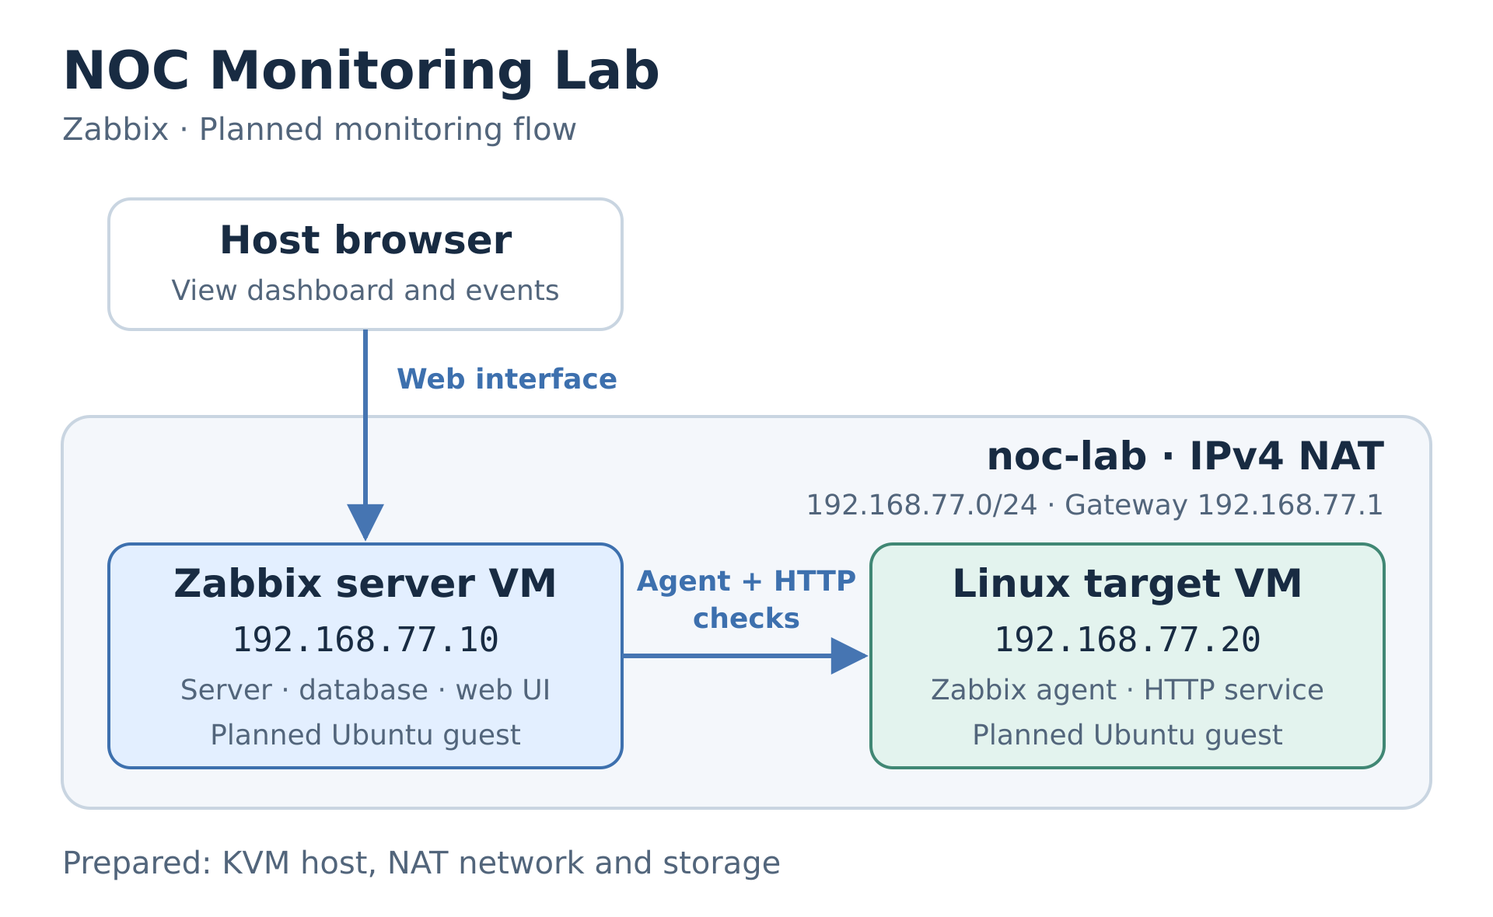
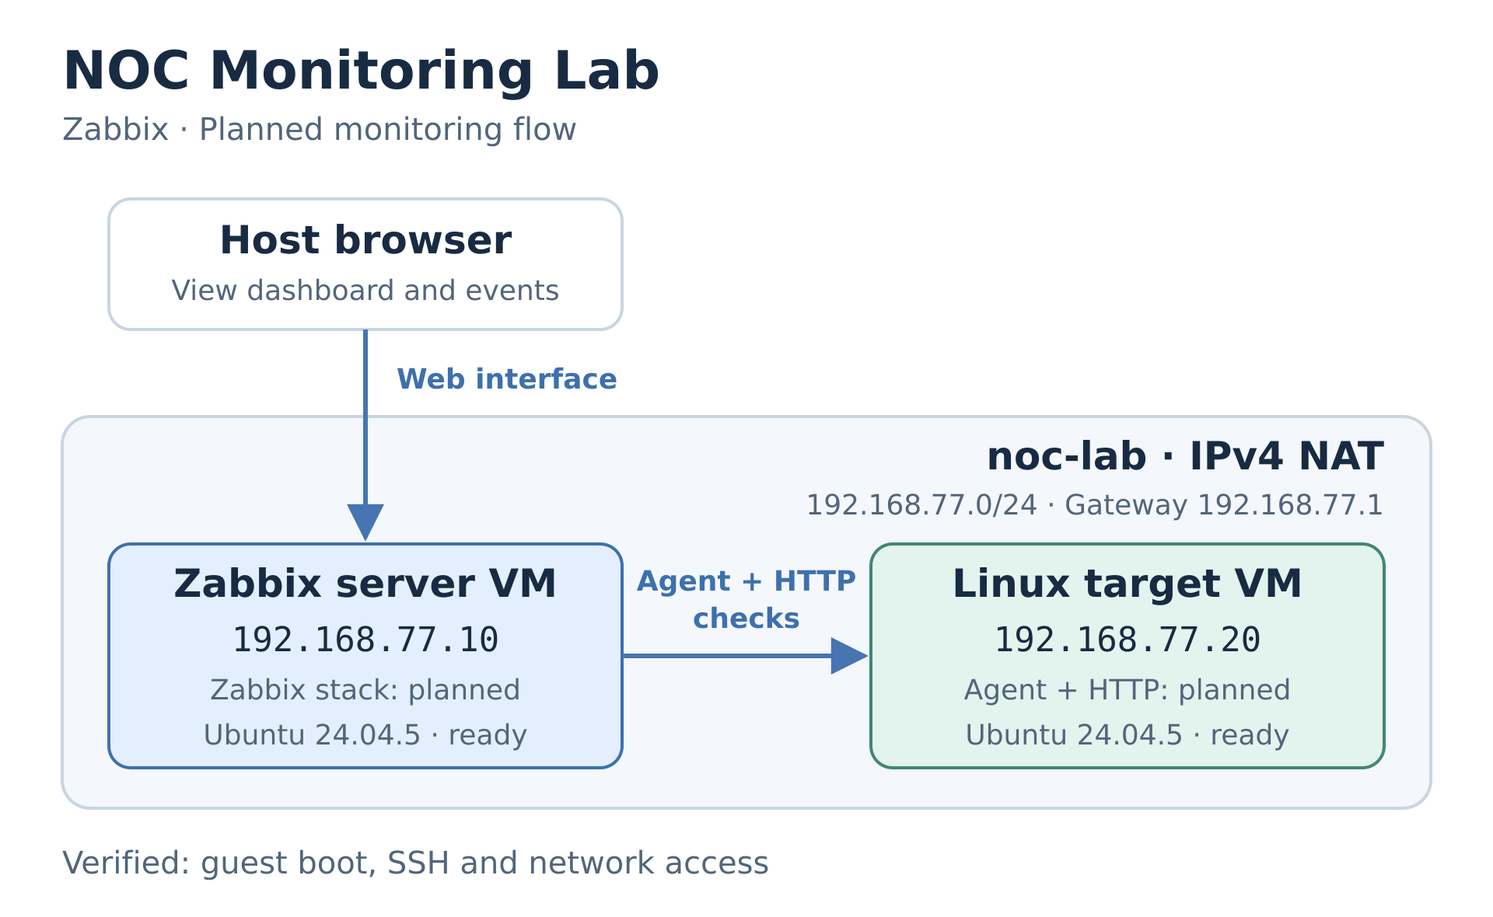
Document verified guest baseline without workstation details

diff --git a/scripts/create-guests.py b/scripts/create-guests.py
@@ -1,0 +1,101 @@
+#!/usr/bin/env python3
+"""Create the two lab guests from the pinned, signature-verified Ubuntu image.
+
+Run as root with IMAGE and SSH_PUBLIC_KEY arguments after authenticating SHA256SUMS.
+Existing guests, disks and rendered configuration are never overwritten.
+"""
+import argparse
+import hashlib
+import json
+import os
+from pathlib import Path
+import shutil
+import subprocess
+import uuid
+import xml.etree.ElementTree as ET
+
+import libvirt
+
+
[1 lines of base64/hex data omitted]
+GUESTS = (
+    ('zabbix-server', 4096, 2, 24, '52:54:00:77:00:10', '192.168.77.10'),
+    ('linux-target', 1024, 1, 12, '52:54:00:77:00:20', '192.168.77.20'),
+)
+
+
+def main():
+    parser = argparse.ArgumentParser(description=__doc__)
+    parser.add_argument('image', type=Path)
+    parser.add_argument('ssh_public_key', type=Path)
+    args = parser.parse_args()
+    if os.geteuid() != 0:
+        raise SystemExit('Run through sudo or pkexec; system libvirt requires administrative access.')
+    image = args.image.resolve(strict=True)
+    with image.open('rb') as source:
+        if hashlib.file_digest(source, 'sha256').hexdigest() != IMAGE_SHA256:
+            raise SystemExit('Image checksum does not match Ubuntu release build 20260926.')
+    key = args.ssh_public_key.read_text().strip()
+    if not key.startswith('ssh-ed25519 ') or '\n' in key:
+        raise SystemExit('Provide one Ed25519 public key, not a private key.')
+
+    project = Path(__file__).resolve().parent.parent
+    template = (project / 'configs/cloud-init/user-data.example').read_text()
+    state = project / '.project/cloud-init'
+    pool_path = Path('/var/lib/libvirt/images/noc-lab')
+    meminfo = dict(line.split(':', 1) for line in Path('/proc/meminfo').read_text().splitlines())
+    if int(meminfo['MemAvailable'].split()[0]) < 7 * 1024 * 1024:
+        raise SystemExit('Need at least 7 GiB available RAM for the 5 GiB guest budget plus headroom.')
+    if shutil.disk_usage(pool_path).free < 45 * 1024**3:
+        raise SystemExit('Need at least 45 GiB free disk for guest capacities and host headroom.')
+
+    with libvirt.open('qemu:///system') as conn:
+        network = conn.networkLookupByName('noc-lab')
+        pool = conn.storagePoolLookupByName('noc-lab')
+        if not network.isActive() or not pool.isActive():
+            raise SystemExit('The noc-lab network and pool must be active.')
+        if ET.fromstring(pool.XMLDesc()).findtext('target/path') != str(pool_path):
+            raise SystemExit('Unexpected noc-lab pool path.')
+        reservations = {h.get('mac'): h.get('ip') for h in ET.fromstring(network.XMLDesc()).findall('ip/dhcp/host')}
+        names = {domain.name() for domain in conn.listAllDomains()}
+        for name, _, _, _, mac, address in GUESTS:
+            if reservations.get(mac) != address:
+                raise SystemExit(f'DHCP reservation mismatch: {name}')
+            if name in names or (pool_path / f'{name}.qcow2').exists() or (state / name).exists():
+                raise SystemExit(f'{name} already has state; inspect it instead of recreating it.')
+
+        os.umask(0o077)
+        state.mkdir(parents=True, exist_ok=True)
+        for name, memory, cpus, disk_gib, mac, _ in GUESTS:
+            seed = state / name
+            seed.mkdir()
+            (seed / 'user-data').write_text(template.replace('__HOSTNAME__', name).replace('__SSH_PUBLIC_KEY__', json.dumps(key)))
+            (seed / 'meta-data').write_text(json.dumps({'instance-id': f'{name}-{uuid.uuid4()}', 'local-hostname': name}) + '\n')
+            network_data = {'version': 2, 'ethernets': {'lab0': {
+                'match': {'macaddress': mac}, 'set-name': 'lab0',
+                'dhcp4': True, 'dhcp-identifier': 'mac', 'dhcp6': False, 'accept-ra': False,
+            }}}
+            (seed / 'network-config').write_text(json.dumps(network_data) + '\n')
+            disk = pool_path / f'{name}.qcow2'
+            print(f'Preparing {name}: {cpus} vCPU, {memory} MiB RAM, {disk_gib} GiB disk.', flush=True)
+            subprocess.run(['qemu-img', 'convert', '-f', 'qcow2', '-O', 'qcow2', str(image), str(disk)], check=True)
+            subprocess.run(['qemu-img', 'resize', str(disk), f'{disk_gib}G'], check=True)
+            pool.refresh()
+            subprocess.run([
+                'virt-install', '--connect', 'qemu:///system', '--name', name,
+                '--memory', str(memory), '--vcpus', str(cpus), '--cpu', 'host-model',
+                '--machine', 'q35', '--virt-type', 'kvm', '--osinfo', 'ubuntu24.04',
+                '--import', '--boot', 'uefi,firmware.feature0.name=secure-boot,firmware.feature0.enabled=no',
+                '--disk', f'path={disk},format=qcow2,bus=virtio',
+                '--network', f'network=noc-lab,model=virtio,mac={mac}',
+                '--graphics', 'none', '--console', 'pty,target_type=serial',
+                '--channel', 'unix,target_type=virtio,name=org.qemu.guest_agent.0',
+                '--cloud-init', f'user-data={seed / "user-data"},meta-data={seed / "meta-data"},network-config={seed / "network-config"}',
+                '--noautoconsole',
+            ], check=True)
+            conn.lookupByName(name).setAutostart(0)
+        print('Both domains created. Wait for cloud-init and verify guest networking before proceeding.', flush=True)
+
+
+if __name__ == '__main__':
+    main()

diff --git a/docs/LAB.md b/docs/LAB.md
@@ -1,43 +1,43 @@
-# Lab design and build steps
+# Lab setup
 
-Status: virtualization host prepared and checked on 2026-09-22; the two Linux guests and Zabbix deployment are pending. See [validation](VALIDATION.md).
+Two Ubuntu VMs are ready; monitoring is the next step. This page describes the lab configuration and how its guest baseline was built. See [validation](VALIDATION.md) for observed results, rather than assuming every planned feature already works.
 
-## Initial topology
+## What runs where
 
-```text
-Host browser -> Zabbix server VM -> Linux target VM
-                                   agent + HTTP service
-```
+- **Physical host:** QEMU/KVM runs the VMs; libvirt manages their network and disks. virt-manager is the graphical management tool.
+- **zabbix-server:** will collect monitoring data, store it in a database and serve the browser dashboard.
+- **linux-target:** will run Zabbix Agent 2 and a small HTTP service. Fault exercises happen here.
 
-The implemented libvirt network `noc-lab` uses bridge `virbr-noc`, gateway `192.168.77.1/24` and IPv4 NAT. The subnet did not overlap the host routes at setup. Its DNS domain is `noc.test`; DHCP reservations are in [the reusable network definition](../configs/libvirt/noc-lab.xml). Guest outbound connectivity will be tested after guest creation. NAT permits guest-initiated access to the LAN as well as the internet; this is not a network for hostile workloads.
+The VMs currently run Ubuntu Server **24.04.5 LTS**. Zabbix **7.0 LTS** is planned, not installed.
 
-## Host preparation
+## Lab settings
 
-The host has an Intel i5-1145G7 (4 cores / 8 threads), approximately 15 GiB usable RAM and hardware KVM support. Before installation, approximately 10 GiB RAM and 113 GiB disk were available. KVM was already enabled; no firmware change was needed.
+| VM | vCPU | RAM | Disk capacity | Reserved IP | MAC address |
+|---|---:|---:|---:|---|---|
+| zabbix-server | 2 | 4 GiB | 24 GiB | 192.168.77.10 | 52:54:00:77:00:10 |
+| linux-target | 1 | 1 GiB | 12 GiB | 192.168.77.20 | 52:54:00:77:00:20 |
 
-Installed from the configured CachyOS/Arch repositories:
+These are starting allocations for this small lab, not production sizing recommendations. Reassess memory after installing services. Each VM uses UEFI, virtio devices and its own qcow2 disk; sparse disk files grow as data is written.
 
-| Package | Installed version |
-|---|---|
-| qemu-desktop | 11.1.1-2 |
-| libvirt | 1:12.7.0-1.1 |
-| virt-manager / virt-install | 5.1.0-4 |
-| dnsmasq | 2.93-1.1 (already installed) |
-| edk2-ovmf | 202608-1 |
+The `noc-lab` network uses subnet `192.168.77.0/24`, gateway `192.168.77.1`, bridge `virbr-noc` and DNS domain `noc.test`. DHCP assigns the reserved addresses above; its dynamic range is `.100`–`.199`. NAT lets guests reach package repositories without connecting them directly to the physical LAN. It also permits guest-initiated LAN access; it is not full isolation from your LAN.
 
-QEMU/KVM runs the guests; libvirt manages their lifecycle, network and storage; virt-manager provides a graphical view. Management uses `qemu:///system` with local polkit authentication. The packaged `libvirtd.service` and its local sockets are enabled. No libvirt TCP management listener was enabled. The network driver uses its default nftables backend.
+## Prepare your own virtualization host
 
-The existing UFW firewall remains active. Four lab-specific IPv4 rules permit DHCP, DNS and outbound forwarding through the current uplink `wlan0`. If the uplink changes, review the forwarding rule before expecting guest internet access. Host Wi-Fi addressing and the default route were preserved.
+Use a Linux host with hardware virtualization enabled. Install QEMU/KVM, libvirt, virt-manager, virt-install, UEFI firmware, dnsmasq and Python libvirt bindings using your distribution's instructions. Service names and firewall setup vary by distribution.
 
-Commands used on the inspected host (run from the repository root; inspect existing routes, firewall rules, networks and pools before reuse):
+Before creating anything, check available memory/storage, existing libvirt networks and routes. Choose a lab subnet that does not overlap your LAN or VPN. The optional creation script requires at least **7 GiB available RAM and 45 GiB free disk** before it starts; these are its guardrails, not measurements of the author's computer.
+
+Run these inspection commands **on the physical host**:
 
 ```sh
-sudo pacman -S --needed qemu-desktop libvirt virt-manager virt-install dnsmasq edk2-ovmf
-sudo systemctl enable --now libvirtd.service
-sudo ufw allow in on virbr-noc proto udp from any to 0.0.0.0/0 port 67 comment 'NOC lab DHCP'
-sudo ufw allow in on virbr-noc proto udp from 192.168.77.0/24 to 192.168.77.1 port 53 comment 'NOC lab DNS UDP'
-sudo ufw allow in on virbr-noc proto tcp from 192.168.77.0/24 to 192.168.77.1 port 53 comment 'NOC lab DNS TCP'
-sudo ufw route allow in on virbr-noc out on wlan0 from 192.168.77.0/24 to any comment 'NOC lab outbound'
+ip route
+virsh -c qemu:///system --readonly net-list --all
+virsh -c qemu:///system --readonly pool-list --all
+```
+
+On a new setup, review [the network XML](../configs/libvirt/noc-lab.xml), then create the network and storage pool from the repository root. Skip creation when they already exist; inspect them instead.
+
+```sh
 sudo virsh -c qemu:///system net-define configs/libvirt/noc-lab.xml
 sudo virsh -c qemu:///system net-start noc-lab
 sudo virsh -c qemu:///system net-autostart noc-lab
@@ -47,52 +47,39 @@ sudo virsh -c qemu:///system pool-start noc-lab
 sudo virsh -c qemu:///system pool-autostart noc-lab
 ```
 
-The package transaction used existing synchronized package databases; it did not run a standalone database refresh or a system upgrade. On an outdated rolling-release host, complete its normal system update before installing packages.
+If your host firewall blocks the lab, allow guest DHCP, DNS to the lab gateway and outbound forwarding through your actual uplink. Keep the firewall enabled; do not copy an interface name from another computer. Verify guest DNS and package access after boot.
 
-Inspect with `virsh -c qemu:///system --readonly net-list --all` and `virsh -c qemu:///system --readonly pool-list --all`. Open virt-manager with the system QEMU/KVM connection; management may request administrator authentication. The dedicated pool is empty. Its autostart activates the storage directory, not the guests.
+Network and pool autostart are enabled in this build. **VM autostart is disabled:** opening the storage pool does not start the guests.
 
-## Planned guests
+## Create and access the guests
 
-| Guest | vCPU | RAM | Maximum qcow2 disk | Reserved IPv4 | NIC MAC |
-|---|---:|---:|---:|---|---|
-| zabbix-server | 2 | 4 GiB | 24 GiB | 192.168.77.10 | 52:54:00:77:00:10 |
-| linux-target | 1 | 1 GiB | 12 GiB | 192.168.77.20 | 52:54:00:77:00:20 |
+### Reproduce guest creation
 
-This is a starting budget for a two-host lab, not a vendor sizing recommendation. Recheck resources before creating guests and measure pressure after deployment. Sparse disks grow as data is written; snapshots also consume host disk. Leave guest autostart disabled initially.
+1. Obtain `ubuntu-24.04-server-cloudimg-amd64.img`, `SHA256SUMS` and `SHA256SUMS.gpg` from the [official release build 20260926](https://cloud-images.ubuntu.com/releases/noble/release-20260926/). Use the released build, not the moving daily image URL.
+2. Follow [Canonical's signature verification procedure](https://ubuntu.com/docs/public-images/public-images-how-to/verify-image-checksum/). The verified signing fingerprint is `D2EB44626FDDC30B513D5BB71A5D6C4C7DB87C81`. Then check the image against the authenticated manifest. The expected SHA256 is:
 
-Selected guest release family: Ubuntu Server 24.04 LTS, with Zabbix 7.0 LTS packages planned. Both are supported release families as checked on 2026-09-22; neither is installed. Use an official amd64 cloud image, verify its checksum against an authenticated upstream manifest, and record its exact build and installed package versions. Use distinct SSH host keys and keep cloud-init credentials local. UEFI firmware is installed for guest creation.
+   ```text
[1 lines of base64/hex data omitted]
+   ```
 
-## Build stages
+3. Prepare a dedicated SSH key and run [the provisioner](../scripts/create-guests.py) from the repository root. These are first-creation commands; keep any existing key and guests instead of replacing them:
 
-1. Prepare virtualization and create the two guests. Select a supported guest OS and Zabbix release from current upstream documentation. Set a memory/disk budget and verify guest reachability.
-2. Install Zabbix and connect the target agent. Acceptance: a recent target metric is visible and its origin/time can be explained.
-3. Add host availability, HTTP and CPU monitoring, a small dashboard, deliberate thresholds and local problem/recovery events. Check that normal operation is healthy.
-4. Reproduce the three faults below, restore normal operation and export the reusable configuration. Add concise validation results and runbooks.
+   ```sh
+   install -d -m 700 credentials
+   ssh-keygen -t ed25519 -N '' -C noc-lab-admin -f credentials/noc-lab_ed25519
+   sudo python3 scripts/create-guests.py \
+     images/ubuntu-24.04-20260926/ubuntu-24.04-server-cloudimg-amd64.img \
+     credentials/noc-lab_ed25519.pub
+   ```
 
-## Exercises
+The provisioner checks the pinned image hash, available resources and DHCP reservations, and refuses existing guest names, disks or rendered configuration. It requires the prepared `noc-lab` network/pool and the host's libvirt Python bindings. It creates independent disks, injects [cloud-init user data](../configs/cloud-init/user-data.example) and boots both guests. Partial failures leave state for inspection; the script does not delete or recreate existing guests automatically.
 
-| ID | Controlled fault | Expected observation | Recovery |
-|---|---|---|---|
-| MON-01 | Stop the target's HTTP service | HTTP problem while the target remains reachable | Start service; HTTP succeeds and the event recovers |
-| MON-02 | Shut down the target VM | Host-unavailable problem; assess dependent alert suppression | Start guest; monitoring resumes and the event recovers |
-| MON-03 | Generate bounded CPU load inside the target VM | Sustained-load problem after the configured evaluation period | Stop load; CPU normalizes and the event recovers |
+Cloud-init creates the `noc` administrator, disables SSH password login, generates distinct host keys, sets UTC, installs QEMU guest agent and updates APT metadata. Passwordless sudo is limited to the lab's administrator account inside each guest. Rendered data and keys stay excluded from Git. Guest initialization completed without errors in this build.
 
-For each exercise record the fault time, first problem time, restoration time, recovery event time and relevant polling/evaluation intervals. These are observed lab timings, not production SLA claims. Exercise MON-03 must run with a fixed duration and within the guest's CPU allocation.
+Connect with the project key, for example `ssh -i credentials/noc-lab_ed25519 -o UserKnownHostsFile=credentials/known_hosts noc@192.168.77.10` (target: `.20`). Confirm the first host key, retain it and do not disable host-key checking. After a physical-host restart, start each guest using `sudo virsh -c qemu:///system start zabbix-server` and `sudo virsh -c qemu:///system start linux-target`.
 
-## Implementation notes
+## What the repository can reproduce
 
-- Use agents and ordinary Linux services first. SNMP network-device monitoring can be a later extension.
-- Choose thresholds from observed baseline data; test both an expected problem and normal recovery.
-- Keep snapshots or a reversible rollback before fault exercises.
-- Add evidence and exports only when produced. Exclude secrets from reusable exports.
+The network XML, cloud-init template and creation script reproduce the documented guest baseline with the pinned image. They do **not** install Zabbix, create a dashboard or run fault exercises. Exact guest versions and checks are recorded in [validation](VALIDATION.md).
 
-## Upstream references
-
-- [CachyOS QEMU and VMM setup](https://wiki.cachyos.org/virtualization/qemu_and_vmm_setup/) — distribution setup context; this lab uses the installed nftables backend with scoped UFW rules.
-- [libvirt daemons](https://libvirt.org/daemons.html) and [network format](https://libvirt.org/formatnetwork.html).
-- [Ubuntu 24.04 release notes](https://documentation.ubuntu.com/release-notes/24.04/) and [official cloud images](https://cloud-images.ubuntu.com/noble/current/).
-- [Zabbix release lifecycle](https://www.zabbix.com/life_cycle_and_release_policy) and [7.0 packages for Ubuntu 24.04](https://www.zabbix.com/download?zabbix=7.0&os_distribution=ubuntu&os_version=24.04&components=server_frontend_agent&db=pgsql&ws=nginx).
-- [Zabbix requirements](https://www.zabbix.com/documentation/current/en/manual/installation/requirements)
-- [Zabbix appliance](https://www.zabbix.com/documentation/current/en/manual/appliance)
-- [Linux monitoring](https://www.zabbix.com/documentation/current/en/manual/guides/monitor_linux)
-- [Web monitoring](https://www.zabbix.com/documentation/current/en/manual/web_monitoring)
+The creation script is optional automation for a fresh lab. Review it before running it: it creates and boots both VMs. For existing guests, use SSH and virt-manager or `virsh`; do not rerun provisioning to apply changes.

diff --git a/docs/VALIDATION.md b/docs/VALIDATION.md
@@ -1,17 +1,21 @@
 # Validation results
 
-## Virtualization host — 2026-09-22
+## Ubuntu guests — 2026-09-27
 
-Directly observed on CachyOS, kernel `7.2.4-1-cachyos`, with the package versions in [LAB.md](LAB.md). Five acceptance checks passed:
+Both guests were created from the authenticated Ubuntu release image build `20260926`. Five acceptance groups passed; [recorded observations](evidence/2026-09-27-guest-baseline.txt) include exact versions, times and baseline memory/disk readings.
 
 | Check | Observation |
 |---|---|
-| KVM access | `/dev/kvm` opened successfully; KVM API returned version 12. |
-| VM lifecycle | Through `qemu:///system`, libvirt created a transient KVM domain with 1 vCPU and 128 MiB RAM in the paused state, then stopped it. Its UUID was absent afterward. It had no disk or NIC; no operating system was booted. |
-| Lab network | `noc-lab` active with autostart, NAT, gateway `.1`, and DHCP reservations `.10` / `.20`. IPv4 forwarding enabled; NAT rules and all four scoped UFW rules present. DNS at `192.168.77.1` answered a query for `example.org`. |
-| Storage | The `noc-lab` directory pool was active with autostart and contained zero volumes. |
-| Host integration | The default route matched the pre-change snapshot. `libvirtd.service` was enabled. No TCP listener existed on libvirt management ports 16509 or 16514. |
+| Provenance and boot | Canonical manifest signature and image SHA256 verified. Both guests booted Ubuntu 24.04.5 LTS, kernel `6.8.0-142-generic`, through UEFI. Cloud-init completed with no errors; no failed systemd units. |
+| SSH and identity | Key login worked for `noc`; password and keyboard-interactive authentication disabled, root password locked. Machine IDs and SSH host keys differ between guests. |
+| Addressing and peer connectivity | DHCP assigned `.10` to the server and `.20` to the target; both use gateway `192.168.77.1`. Three ICMP requests succeeded in each direction with zero packet loss. |
+| DNS, repositories and time | Both resolved `archive.ubuntu.com` and completed `apt-get update` with `APT::Update::Error-Mode=any`. NTP synchronized on both guests. |
+| Host integration and budget | Guest agents answered through libvirt. Allocations matched 2 vCPU / 4 GiB / 24 GiB and 1 vCPU / 1 GiB / 12 GiB. Guest autostart disabled. |
 
-Additional static checks: the network XML passed `virt-xml-validate`; local coordination, credentials and image paths are excluded from Git.
+Not yet tested: Zabbix server/agent, HTTP service, dashboard, fault/recovery scenarios, or guest restart persistence. Guest agent refers to QEMU guest agent, not the Zabbix agent. The baseline is an idle guest observation, not a load or capacity test.
 
-Limits: no full guest OS boot, DHCP lease acquisition, guest-to-guest reachability, guest internet access, GUI interaction or reboot persistence test has been performed. Autostart settings were inspected, not verified by rebooting the host. DNS was tested from the host. No Zabbix metrics, dashboard, alert timings or fault/recovery results exist yet. MON-01, MON-02 and MON-03 remain planned.
+## Earlier infrastructure check — 2026-09-22
+
+Before creating the guests, KVM access, a temporary paused VM lifecycle, the lab network/DNS and the storage pool were checked. Those checks did not boot a guest OS. The guest results above are the more useful baseline for continuing the project.
+
+The network XML also passed schema validation. Local credentials, VM images and workspace notes are excluded from Git.

diff --git a/README.md b/README.md
@@ -2,9 +2,9 @@
 
 A practical monitoring portfolio built around one workflow: **detect a fault, investigate the cause, restore service and verify recovery**.
 
-The lab will use two Linux virtual machines to explore host availability, HTTP service health and CPU monitoring. Each fault exercise will record the observed problem and recovery times.
+The lab uses two Linux virtual machines to explore host availability, HTTP service health and CPU monitoring. Each fault exercise will record the observed problem and recovery times.
 
-> **Work in progress:** the virtualization host, lab network and storage are prepared. Five host acceptance checks passed. The two Linux guests and Zabbix are not deployed yet. See the [verified results and test limits](docs/VALIDATION.md).
+> **Work in progress:** both Ubuntu guests were running at the 2026-09-27 baseline check. Boot, SSH, guest-to-guest connectivity, DNS and package repository access are verified. Zabbix deployment and fault exercises are next. See the [verified results and test limits](docs/VALIDATION.md).
 
 ## Lab overview
 
@@ -17,7 +17,7 @@ Planned monitoring flow on the configured `noc-lab` NAT network:
 | Layer | Technology | State |
 |---|---|---|
 | Virtualization | QEMU/KVM, libvirt, virt-manager | Installed; KVM lifecycle verified |
-| Guest systems | Ubuntu Server 24.04 LTS | Planned |
+| Guest systems | Ubuntu Server 24.04.5 LTS | Running; baseline connectivity verified |
 | Monitoring | Zabbix 7.0 LTS, Linux agent and HTTP service | Planned |
 
 The starting guest budget is **3 vCPUs and 5 GiB RAM in total**. Resource allocations, addresses and setup commands are documented in the [build guide](docs/LAB.md).
@@ -38,15 +38,16 @@ The intended result is a small dashboard, measured detection and recovery timing
 
 - [x] Inspect host capacity and hardware virtualization.
 - [x] Prepare and check KVM, the lab network and storage.
-- [ ] Create both guests and verify connectivity.
+- [x] Create both guests and verify connectivity.
 - [ ] Install Zabbix and collect the first target metric.
 - [ ] Configure monitoring, triggers and a dashboard.
 - [ ] Reproduce all three faults and document recovery.
 
 ## Explore the project
 
-- **[Build guide](docs/LAB.md)** — design choices, installed versions, setup commands and guest sizing.
+- **[Build guide](docs/LAB.md)** — VM roles, network settings and steps to reproduce the guest baseline.
 - **[Validation results](docs/VALIDATION.md)** — directly observed checks and what remains untested.
 - **[Network configuration](configs/libvirt/noc-lab.xml)** — reusable libvirt NAT network and DHCP reservations.
+- **[Guest creation script](scripts/create-guests.py)** — pinned image, separate disks and a [cloud-init template](configs/cloud-init/user-data.example).
 
 To reproduce the setup, start with the build guide and check the proposed subnet and resource budget against your own host. VM images, credentials and generated local files are excluded from this repository.
